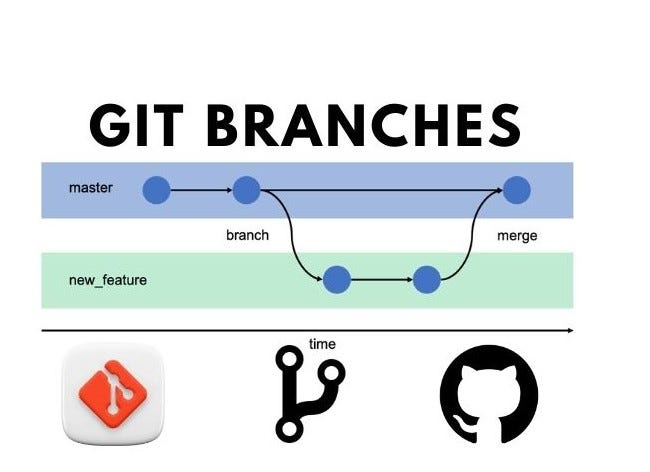
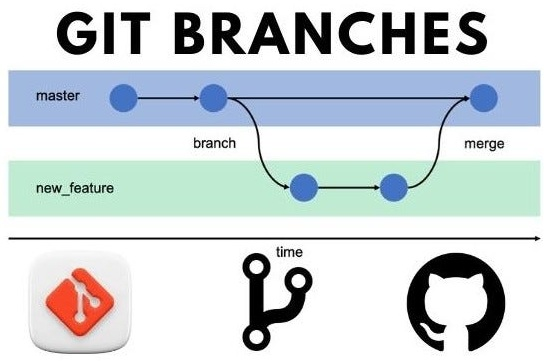
changed readme jpg and fixed padding issues

diff --git a/Wireframe/style.css b/Wireframe/style.css
@@ -24,7 +24,7 @@ a {
 .wireframe1,
 .gitpic1 {
   width: 100%;
-  object-fit: cover;
+  object-fit: contain;
   display: block;
 }
 
@@ -32,6 +32,7 @@ a {
   width: 100%;
   object-fit: contain;
   margin-left: 0;
+  height: auto;
 }
 
 main {
@@ -75,7 +76,7 @@ article>* {
 article > img {
   grid-column: span 3;
   width: 100%;
-  height: auto;
+  height: 200px;
   object-fit: contain;
   display: block;
 }
